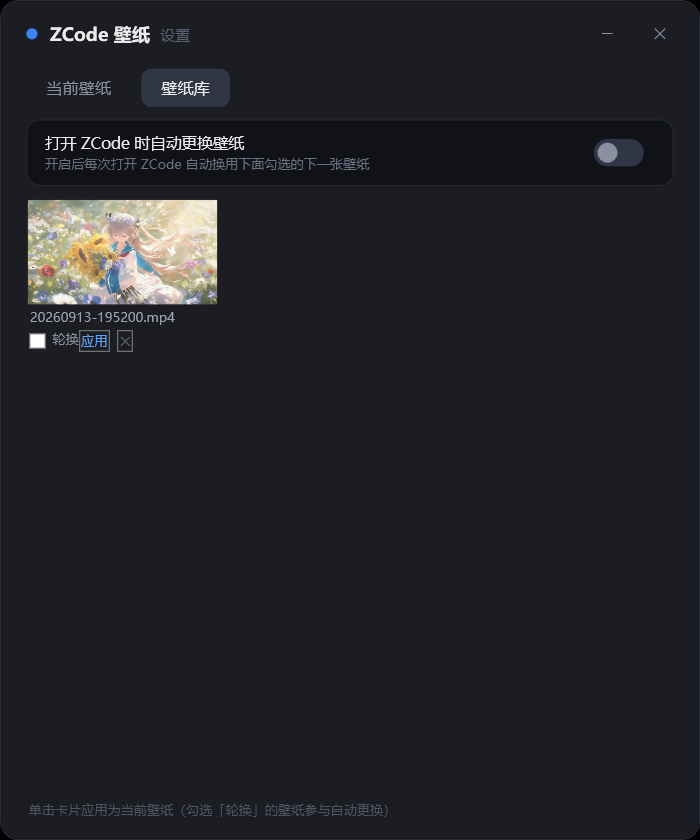
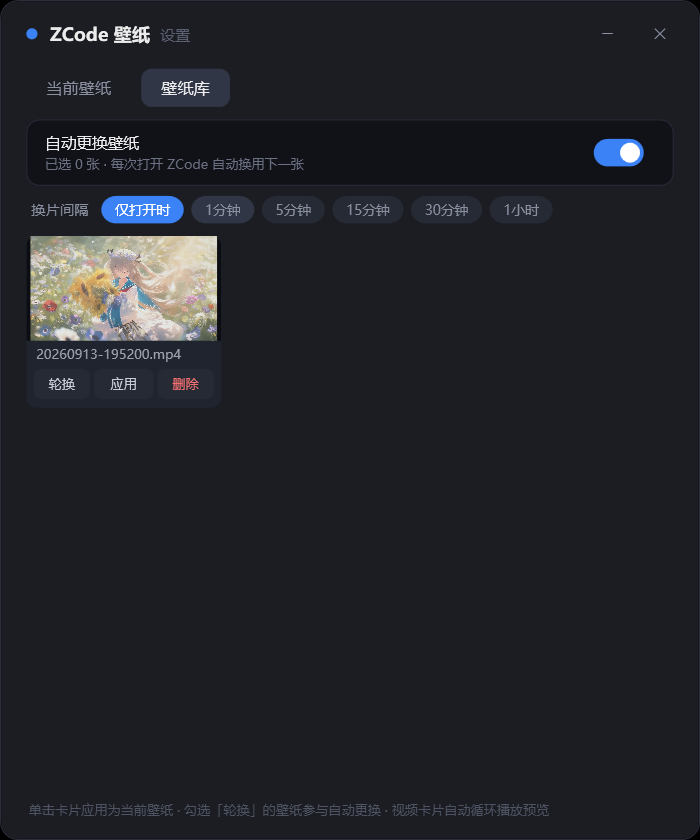
视频实时预览（主预览+库卡片 MediaElement 播放）、比例修正、统一 mini 按钮样式、轮换间隔设置（1分钟~1小时）

diff --git a/files/oc-wallpaper.js b/files/oc-wallpaper.js
@@ -154,10 +154,28 @@
   }
 
   /* ── 1) 自动轮换：rotate/rotate-N.* 存在即启用 ── */
+  var INTERVALS = [1, 5, 15, 30, 60, 120]; // 选择器可生成的换片间隔（分钟）
+
   function rotateStart() {
     var idx = 0;
     try { idx = parseInt(localStorage.getItem('oc-wp-idx') || '0', 10) || 0; } catch (e) {}
     tryRotate(idx + 1);
+    detectInterval(0); // 探测 interval-N.gif → 有则启动定时换片
+  }
+
+  function detectInterval(i) {
+    if (i >= INTERVALS.length) return;
+    var minutes = INTERVALS[i];
+    var img = new Image();
+    img.onload = function () {
+      setInterval(function () {
+        var cur = 0;
+        try { cur = parseInt(localStorage.getItem('oc-wp-idx') || '0', 10) || 0; } catch (e) {}
+        tryRotate(cur + 1);
+      }, minutes * 60 * 1000);
+    };
+    img.onerror = function () { detectInterval(i + 1); };
+    img.src = ROTATE_DIR + 'interval-' + minutes + '.gif';
   }
 
   function tryRotate(n) {
